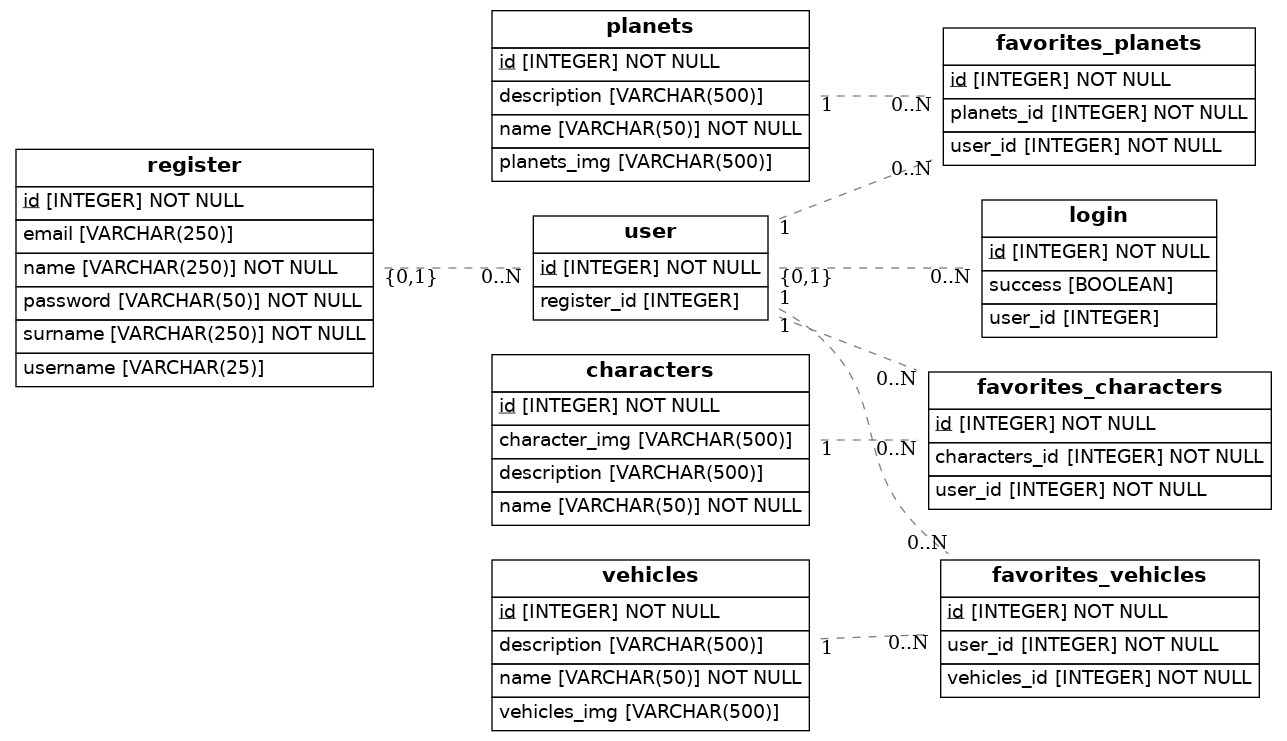
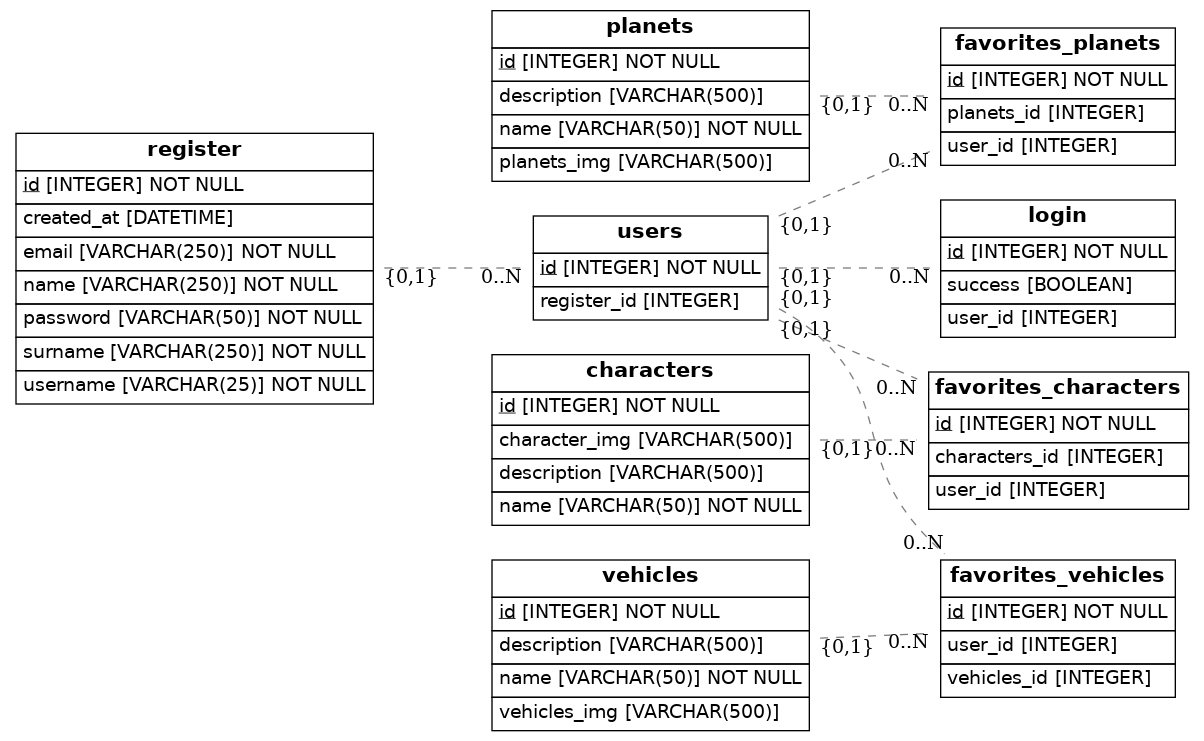
Version Final

diff --git a/src/models.py b/src/models.py
@@ -1,9 +1,7 @@
-import os
-import sys
-from sqlalchemy import Column, ForeignKey, Integer, String, Boolean
+from sqlalchemy import Column, ForeignKey, Integer, String, Boolean, DateTime
 from sqlalchemy.orm import relationship, declarative_base
-from sqlalchemy import create_engine
 from eralchemy2 import render_er
+from datetime import datetime
 
 Base = declarative_base()
 
@@ -12,69 +10,68 @@ class Register(Base):
     id = Column(Integer, primary_key=True)
     name = Column(String(250), nullable=False)
     surname = Column(String(250), nullable=False)
-    date_suscription = ()
-    email = Column(String(250), unique=True)
-    username = Column(String(25), unique=True)
+    email = Column(String(250), unique=True, nullable=False)
+    username = Column(String(25), unique=True, nullable=False)
     password = Column(String(50), nullable=False)
+    created_at = Column(DateTime(), default=datetime.now())
 
 class LogIn(Base):
     __tablename__ = 'login'
     id = Column(Integer, primary_key=True)
     success = Column(Boolean, default=False)
-    user_id = Column(Integer, ForeignKey('user.id'))
+    user_id = Column(Integer, ForeignKey('users.id'))
 
 class User(Base):
-    __tablename__ = 'user'
+    __tablename__ = 'users'
     # Here we define columns for the table address.
     # Notice that each column is also a normal Python instance attribute.
     id = Column(Integer, primary_key=True)
     register_id = Column(Integer, ForeignKey('register.id'))
 
-class Characters(Base):
+class Character(Base):
     __tablename__ = 'characters'
     id = Column(Integer, primary_key=True)
     name = Column(String(50), nullable=False)
     description = Column(String(500), nullable=True)
     character_img = Column(String(500), nullable=True)
-    favorites_character = relationship('favorites_characters', backref = 'characters', lazy=True)
 
-class FavoritesCharacters(Base):
+class FavoriteCharacter(Base):
     __tablename__ = 'favorites_characters'
     id = Column(Integer, primary_key=True)
-    user_id = Column(Integer, ForeignKey('user.id'), nullable=False)
+    user_id = Column(Integer, ForeignKey('users.id'))
     user_relantionship = relationship(User)
-    characters_id = Column(Integer, ForeignKey('characters.id'), nullable=False)
-    characters_relantionship = relationship(Characters)
+    characters_id = Column(Integer, ForeignKey('characters.id'))
+    characters_relantionship = relationship(Character)
 
-class Planets(Base):
+class Planet(Base):
     __tablename__ = 'planets'
     id = Column(Integer, primary_key=True)
     name = Column(String(50), nullable=False)
     description = Column(String(500), nullable=True)
     planets_img = Column(String(500), nullable=True)
 
-class FavoritesPlanets(Base):
+class FavoritePlanet(Base):
     __tablename__ = 'favorites_planets'
     id = Column(Integer, primary_key=True)
-    user_id = Column(Integer, ForeignKey('user.id'), nullable=False)
+    user_id = Column(Integer, ForeignKey('users.id'))
     user_relantionshiop = relationship(User)
-    planets_id = Column(Integer, ForeignKey('planets.id'), nullable=False)
-    planets_relationship = relationship(Planets)
+    planets_id = Column(Integer, ForeignKey('planets.id'))
+    planets_relationship = relationship(Planet)
 
-class Vehicles(Base):
+class Vehicle(Base):
     __tablename__ = 'vehicles'
     id = Column(Integer, nullable=False, primary_key=True)
     name = Column(String(50), nullable=False)
     description = Column(String(500), nullable=True)
     vehicles_img = Column(String(500), nullable=True)
 
-class FavoritesVehicles(Base):
+class FavoriteVehicle(Base):
     __tablename__ = 'favorites_vehicles'
     id = Column(Integer, primary_key=True)
-    user_id = Column(Integer, ForeignKey('user.id'), nullable=False)
+    user_id = Column(Integer, ForeignKey('users.id'))
     user_relantionshiop = relationship(User)
-    vehicles_id = Column(Integer, ForeignKey('vehicles.id'), nullable=False)
-    vehicles_relationship = relationship(Vehicles)
+    vehicles_id = Column(Integer, ForeignKey('vehicles.id'))
+    vehicles_relationship = relationship(Vehicle)
 
     def to_dict(self):
         return {}
